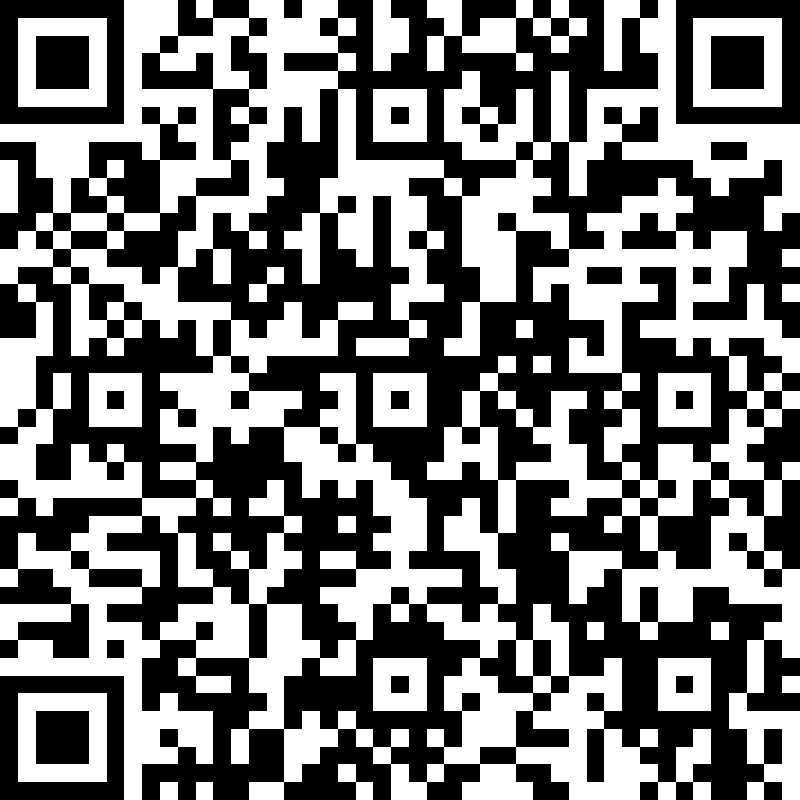
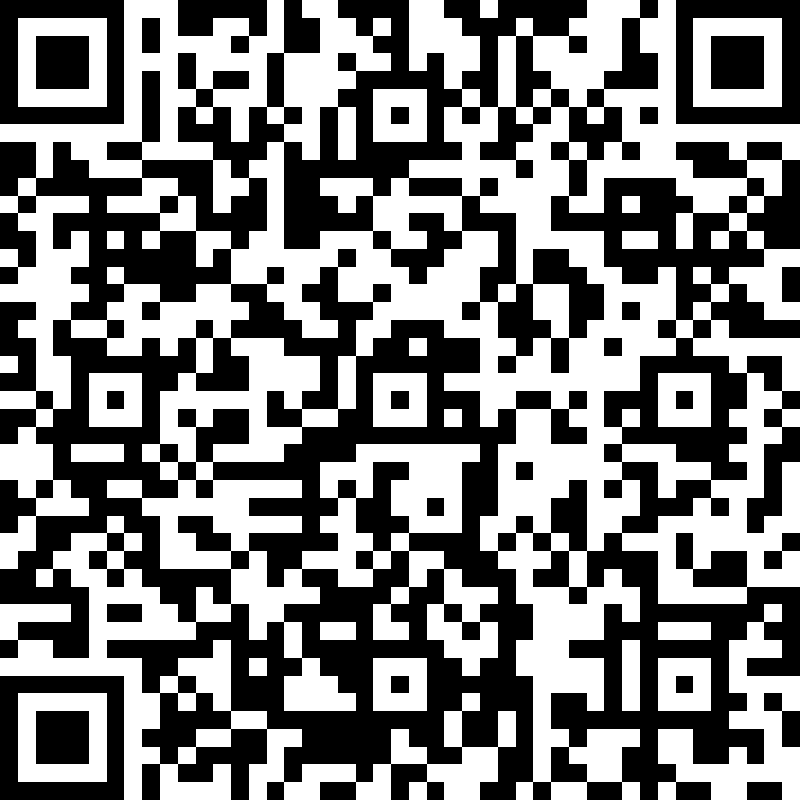
English slides lesson 2 with correct link to office form

diff --git a/slides-en/rm2_en_researchquestion.tex b/slides-en/rm2_en_researchquestion.tex
@@ -296,7 +296,7 @@
         
         \centering
         
-        \url{https://forms.office.com/r/MG0aJfYv68}
+        \url{https://forms.office.com/r/mukr7JDMB1}
         
         \bigskip
         
